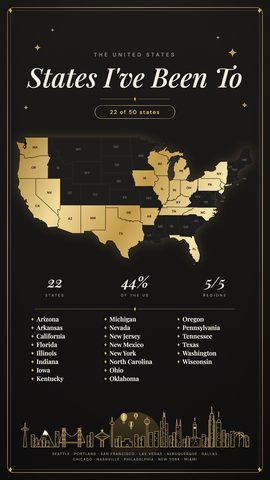
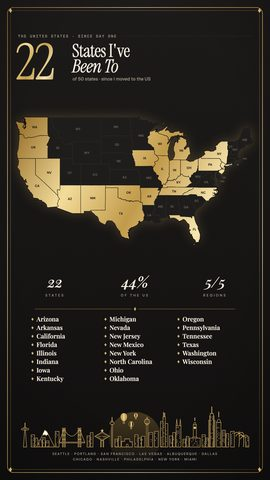
Editorial header on Wrapped, career and luxury designs
Adds edTop (compact hero numeral + serif title) and edStats (hairline
stat row). Used by Travel Wrapped, Wrapped Noir, World Wrapped, PM,
Tech, MBA, Doctor, CEO, the dark luxury set and Noir & Gold World.

Changed region(s): [[0.0593, 0.2188, 0.8889, 0.5625], [0.0593, 0.0625, 0.7704, 0.1875], [0.8, 0.0938, 0.9185, 0.1875]]

diff --git a/generator/index.html b/generator/index.html
@@ -978,12 +978,8 @@ function v55(){const ST=STATS();
  const NAVY="#2b3550",TEAL="#6fa79d",CORAL="#e3907c",MUT="#6b7a90",LINE="#e3e8ef",BG="#f7f4ef";
  bg(BG);const sh=shadow(0,6,14,"#2b3550",.06);
  svg.append("rect").attr("x",0).attr("y",0).attr("width",1080).attr("height",10).attr("fill",NAVY);svg.append("rect").attr("x",0).attr("y",10).attr("width",360).attr("height",6).attr("fill",TEAL);
- T(svg,72,200,`TRAVEL PORTFOLIO REVIEW  ·  ${CONFIG.sinceShort.toUpperCase()}`,{f:MONO,w:600,s:20,ls:3,c:TEAL});
- fitT(T(svg,68,292,"US Market Coverage",{f:SANS,w:700,s:86,c:NAVY,ls:-1}),940,86);
- T(svg,72,345,`A footprint across ${N} of 50 states, with presence in ${ST.ra===5?"all 5":ST.ra+" of 5"} regions`,{f:PLEX,s:25,c:MUT});
- const K=[[`${Math.round(N/50*100)}%`,"COVERAGE","of 50 states"],[`${N}`,"STATES ENTERED","coast to coast"],[`${ST.ra}/5`,"REGIONS ACTIVE",ST.ra===5?"full presence":`${5-ST.ra} to go`],[`${CONFIG.cities.length}`,"KEY CITIES",(CONFIG.cities.length?`${CONFIG.cities[0]} → ${CONFIG.cities[CONFIG.cities.length-1]}`:"add some!")]];
- K.forEach(([v,k,s],i)=>{const x=72+i*238,g=svg.append("g");cardBox(g,x,388,222,170,{sh});g.append("rect").attr("x",x).attr("y",388).attr("width",6).attr("height",170).attr("rx",3).attr("fill",i===0?CORAL:TEAL);
-  T(g,x+26,428,k,{f:MONO,w:600,s:14,ls:2,c:MUT});T(g,x+24,500,v,{f:SANS,w:700,s:62,c:NAVY});T(g,x+26,536,s,{f:PLEX,s:17,c:MUT});});
+ edTop({muted:MUT,line:"#dcd6cc",amber:CORAL,ink:NAVY},`TRAVEL PORTFOLIO REVIEW  ·  ${CONFIG.sinceShort.toUpperCase()}`,N,"US Market","Coverage",`of 50 states  ·  ${ST.ra===5?"all 5":ST.ra+" of 5"} regions`);
+ edStats({muted:MUT,line:"#dcd6cc",amber:CORAL,ink:NAVY},404,[["COVERAGE",`${ST.pct}%`,"of 50 states"],["REGIONS",`${ST.ra} of 5`,ST.ra===5?"full presence":`${5-ST.ra} to go`],["TOP REGION",ST.top,`${Math.round(ST.tp*100)}% covered`,true],["KEY CITIES",`${CONFIG.cities.length}`,"logged"]]);
  const mg=svg.append("g");cardBox(mg,72,590,936,580,{sh});
  T(mg,100,634,"Coverage map",{f:SANS,w:700,s:26,c:NAVY});T(mg,980,634,"Lower 48 shown",{f:MONO,s:15,c:MUT,a:"end"});
  const m=map(mg,[96,660,888,450],{fill:(n,v)=>v?(REG(n)===ST.top?CORAL:TEAL):"#ebe6df",stroke:"#ffffff",sw:(n,v)=>v?1.8:1.2});
@@ -1005,11 +1001,8 @@ function v55(){const ST=STATS();
 /* 56. TECH — travel dashboard */
 function v56(){const ST=STATS(),R=MOD.R,INK="#17223a",MUT="#5d6a82",AMB="#c9761a",P2={surf:"#ffffff",line:"#cfd6e1",sh:shadow(0,8,18,"#0b1220",.07)};
  dotBg("#eef1f5","#cfd6e1");
- T(svg,72,150,"~/states-log  on  main  ✓",{f:MONO,w:500,s:20,c:MUT});
- const tl=T(svg,64,250,"states",{f:MONO,w:600,s:100,c:INK});tl.append("tspan").attr("fill",AMB).text(".log");
- const tw=tl.node().getComputedTextLength();svg.append("rect").attr("x",64+tw+10).attr("y",176).attr("width",26).attr("height",78).attr("fill",AMB);
- T(svg,72,300,`${N} commits  ·  ${ST.pct}% coverage  ·  ${ST.ra}/5 regions  ·  ${CONFIG.sinceShort}`,{f:MONO,s:19,c:MUT});
- shields(326,[["build","passing","#2f8f8a"],["coverage",`${ST.pct}%`,"#2b4c8c"],["regions",`${ST.ra}/5`,"#6b85c9"],["release",`v${N}.0`,AMB]],72);
+ edTop({muted:MUT,line:"#cfd6e1",amber:AMB,ink:INK},`~/STATES-LOG  ·  MAIN  ✓  ·  ${CONFIG.sinceShort.toUpperCase()}`,N,"states","shipped.",`commits  ·  ${ST.pct}% coverage  ·  ${ST.ra}/5 regions`);
+ shields(344,[["build","passing","#2f8f8a"],["coverage",`${ST.pct}%`,"#2b4c8c"],["regions",`${ST.ra}/5`,"#6b85c9"],["release",`v${N}.0`,AMB]],72);
  // repo card
  card(72,390,936,620,P2);
  T(svg,100,438,`${CONFIG.name.toLowerCase().replace(/\s+/g,"-")} / states-log`,{f:MONO,w:600,s:22,c:INK});
@@ -1085,9 +1078,7 @@ function v58(){const ST=STATS();
  const INK="#17223a",MUT="#5d6a82",R=MOD.R,ACC="#2b4c8c",AMB="#c9761a";
  aura({base:"#eef1f5",blobs:[[120,200,330,"#dce6f3"],[980,240,300,"#f4e4cc"],[960,1000,340,"#e1e7f4"],[100,1050,320,"#d9ebe8"],[560,1750,380,"#e3e9f3"],[1000,1820,240,"#f1e6d2"]]});
  const sh=shadow(0,12,22,INK,.10),glass=(g,x,y,w,h,r=26)=>g.append("rect").attr("x",x).attr("y",y).attr("width",w).attr("height",h).attr("rx",r).attr("fill","#ffffff").attr("fill-opacity",.72).attr("stroke","#ffffff").attr("stroke-width",2).attr("filter",sh);
- T(svg,72,168,"me@usa:~$ travel --wrapped",{f:MONO,w:500,s:21,c:MUT});
- const tw=T(svg,62,282,"Travel ",{f:DISP,w:800,s:118,ls:-5,c:INK});tw.append("tspan").attr("fill",AMB).attr("font-family",SERIF2).attr("font-style","italic").attr("font-weight",400).attr("font-size",140).attr("letter-spacing",0).text("Wrapped");
- T(svg,72,316,`Every state ${CONFIG.since}`,{f:PLEX,s:25,c:MUT});
+ edTop({muted:MUT,line:"#cfd6e1",amber:AMB,ink:INK},`${CONFIG.name.toUpperCase()}  ·  TRAVEL WRAPPED  ·  ${CONFIG.sinceShort.toUpperCase()}`,N,"Travel","Wrapped",`states  ·  every one ${CONFIG.since}`);
  // now playing (music) — same card, shifted up
  const np=svg.append("g").attr("transform","translate(0,-32)");glass(np,72,380,936,190);
  np.append("rect").attr("x",96).attr("y",404).attr("width",142).attr("height",142).attr("rx",14).attr("fill",lg(["#2b4c8c","#2f8f8a","#c9761a"],1,1));
@@ -1146,17 +1137,10 @@ function luxDark(P){
  svg.append("rect").attr("x",30).attr("y",30).attr("width",1020).attr("height",1860).attr("rx",24).attr("fill","none").attr("stroke",GOLD).attr("stroke-width",2.2);
  svg.append("rect").attr("x",42).attr("y",42).attr("width",996).attr("height",1836).attr("rx",16).attr("fill","none").attr("stroke",GOLD).attr("stroke-width",.8).attr("opacity",.8);
  [[42,42],[1038,42],[42,1878],[1038,1878]].forEach(([x,y])=>svg.append("path").attr("d",`M${x},${y-9}L${x+6},${y}L${x},${y+9}L${x-6},${y}Z`).attr("fill",GOLD));
- // sparkles (kept clear of text)
- [[150,190,14],[930,210,18],[104,430,9],[978,420,11],[872,150,7],[210,120,7]].forEach(([x,y,r])=>sparkle(svg,x,y,r,GOLD).attr("opacity",.9));
- // header
- T(svg,540,226,P.eyebrow||"THE  UNITED  STATES",{f:"DM Sans",w:500,s:21,ls:8,c:P.muted,a:"middle"});
- fitT(T(svg,540,350,CONFIG.title,{f:"Playfair Display",i:true,w:500,s:118,c:P.ink,a:"middle"}),860,118);
- diamondRule(svg,540,396,140,GS);
- const pill=svg.append("g");pill.append("rect").attr("x",380).attr("y",422).attr("width",320).attr("height",52).attr("rx",26).attr("fill","none").attr("stroke",GOLD).attr("stroke-width",1.6);
- T(pill,540,456,`${N}  of  50  states`,{f:"DM Sans",w:500,s:22,ls:3,c:P.accent,a:"middle"});
+ edTop({muted:P.muted,line:P.unStroke,amber:GOLD,ink:P.ink},`${(P.eyebrow||"THE UNITED STATES").replace(/  /g," ")}  ·  ${CONFIG.sinceShort.toUpperCase()}`,N,...splitTitle(CONFIG.title),`of 50 states  ·  ${CONFIG.since}`);
  // map
  const glow=shadow(0,0,22,P.glow||GS,P.glowOp??.28);
- const m=map(svg,[64,540,952,520],{fill:(n,v)=>v?(P.foil?FOIL:P.R[REG(n)]):P.un,stroke:(n,v)=>v?P.vStroke:P.unStroke,sw:(n,v)=>v?1.3:1,
+ const m=map(svg,[64,400,952,640],{fill:(n,v)=>v?(P.foil?FOIL:P.R[REG(n)]):P.un,stroke:(n,v)=>v?P.vStroke:P.unStroke,sw:(n,v)=>v?1.3:1,
   under:(g,path)=>{g.append("path").datum({type:"FeatureCollection",features:STATES}).attr("d",path).attr("fill",P.un).attr("filter",glow);}});
  allLabels(m,P.vLab,P.unLab,"DM Sans",13);
  // stats row
@@ -1199,9 +1183,7 @@ function v63(){const ST=STATS();
  const INK="#f3ece2",MUT="#a39788",R={West:"#6aa894",Southwest:"#d48e64",Midwest:"#dcb862",Southeast:"#c9818f",Northeast:"#8296cf"};
  aura({base:"#100e13",blobs:[[120,200,330,"#3a1f2c"],[980,240,300,"#3a2c16"],[960,1000,340,"#1f2442"],[100,1050,320,"#12302a"],[560,1750,380,"#2e1a28"],[1000,1820,240,"#3a3018"]]});
  const sh=shadow(0,12,22,INK,.10),glass=(g,x,y,w,h,r=26)=>g.append("rect").attr("x",x).attr("y",y).attr("width",w).attr("height",h).attr("rx",r).attr("fill","#ffffff").attr("fill-opacity",.055).attr("stroke","#e8c98a").attr("stroke-opacity",.28).attr("stroke-width",1.2).attr("filter",sh);
- T(svg,72,168,"me@usa:~$ travel --wrapped",{f:MONO,w:500,s:21,c:MUT});
- T(svg,64,272,"Travel Wrapped",{f:"Playfair Display",i:true,w:500,s:118,c:INK});
- T(svg,72,316,`Every state ${CONFIG.since}`,{f:PLEX,s:25,c:MUT});
+ edTop({muted:MUT,line:"#3a3430",amber:"#e8c98a",ink:INK},`${CONFIG.name.toUpperCase()}  ·  TRAVEL WRAPPED  ·  ${CONFIG.sinceShort.toUpperCase()}`,N,"Travel","Wrapped",`states  ·  every one ${CONFIG.since}`);
  // now playing (music) — same card, shifted up
  const np=svg.append("g").attr("transform","translate(0,-32)");glass(np,72,380,936,190);
  np.append("rect").attr("x",96).attr("y",404).attr("width",142).attr("height",142).attr("rx",14).attr("fill",lg(["#d8b56e","#a8803c","#9d86c9"],1,1));
@@ -1261,18 +1243,14 @@ function v65(){const ST=STATS(),INK="#12313a",TEAL="#2a8c82",CORAL="#e07a6a",MUT
  const R={West:"#3f9c8f",Southwest:"#e0937a",Midwest:"#7fbfb3",Southeast:"#5aa7c4",Northeast:"#2f6f8a"};
  bg("#f3f8f7");noise(.035,.9,[.2,.4,.4]);const sh=shadow(0,8,18,INK,.06);
  svg.append("rect").attr("width",1080).attr("height",12).attr("fill",TEAL);
- T(svg,72,168,"PATIENT CHART  ·  TRAVEL MEDICINE",{f:MONO,w:600,s:18,ls:3,c:TEAL});T(svg,1008,168,"MRN 0050-USA",{f:MONO,s:17,c:MUT,a:"end"});
- fitT(T(svg,68,262,"Travel Health Record",{f:SERIF2,i:true,w:500,s:94,c:INK}),940,94);
- T(svg,72,308,`Patient: ${who("Me")}   ·   History: every state ${CONFIG.since}`,{f:PLEX,s:22,c:MUT});
+ edTop({muted:MUT,line:LINE,amber:TEAL,ink:INK},`PATIENT CHART  ·  TRAVEL MEDICINE  ·  MRN 0050-USA`,N,"Travel Health","Record",`states  ·  patient ${who("Me")}  ·  ${CONFIG.since}`);
  // ECG
  let d="M72,392";const pts=[[140,0],[160,-8],[178,0],[196,0],[206,14],[222,-46],[238,20],[252,0],[300,0],[318,-10],[340,0]];
  for(let k=0;k<3;k++)pts.forEach(([x,y])=>d+=` L${72+k*300+x},${392+y}`);d+=" L1008,392";
  svg.append("path").attr("d",d).attr("fill","none").attr("stroke",TEAL).attr("stroke-width",3.5).attr("stroke-linejoin","round").attr("stroke-linecap","round");
  heart(svg,1000,396,2.2,CORAL);
  // vitals
- [[`${N}`,"/50","STATES VISITED",INK],[`${ST.pct}`,"%","COVERAGE",INK],[`${ST.ra}`,"/5","REGIONS",INK],["HIGH","↑","WANDERLUST",CORAL]].forEach(([v,u,k,c],i)=>{const x=72+i*238,g=svg.append("g");
-  cardBox(g,x,430,222,140,{r:18,stroke:LINE,sh});g.append("rect").attr("x",x).attr("y",430).attr("width",222).attr("height",6).attr("fill",i===3?CORAL:TEAL);
-  T(g,x+22,474,k,{f:MONO,w:600,s:14,ls:2,c:MUT});const tv=T(g,x+20,544,v,{f:"DM Sans",w:700,s:52,c});tv.append("tspan").attr("font-size",24).attr("fill",MUT).text(" "+u);});
+ edStats({muted:MUT,line:LINE,amber:CORAL,ink:INK},430,[["STATES VISITED",`${N} / 50`,"confirmed"],["COVERAGE",`${ST.pct}%`,"of the US"],["REGIONS",`${ST.ra} / 5`,ST.ra===5?"all active":`${5-ST.ra} to go`],["WANDERLUST","High ↑","chronic",true]]);
  // imaging
  const mg=svg.append("g");cardBox(mg,72,600,936,560,{r:22,stroke:LINE,sh});
  T(mg,100,644,"Imaging  ·  full-body scan",{f:"DM Sans",w:700,s:24,c:INK});T(mg,980,644,"contiguous US",{f:MONO,s:15,c:MUT,a:"end"});
@@ -1334,12 +1312,8 @@ function v66(){const ST=STATS(),INK="#1c1b1a",MUT="#6b6660",BUR="#8b1e2d",RULE="
 function v67(){const ST=STATS(),IV="#f3ece0",MUT="#9a9083",GS="#c9a45c";const GOLD=lg(GOLDS,1,1),FOIL=lg(GOLDS,1,.55,[72,700,1008,1150]);
  svg.append("rect").attr("width",1080).attr("height",1920).attr("fill",lg(["#151413","#0b0a0a"],0,1));noise(.05,.95,[1,.92,.82]);
  svg.append("rect").attr("x",0).attr("y",0).attr("width",1080).attr("height",8).attr("fill",GOLD);
- T(svg,72,170,"ANNUAL  REPORT",{f:"DM Sans",w:500,s:20,ls:8,c:GS});T(svg,1008,170,CONFIG.sinceShort.toUpperCase(),{f:"DM Sans",w:500,s:16,ls:4,c:MUT,a:"end"});
- fitT(T(svg,68,272,"Expansion Footprint",{f:SERIF2,i:true,w:500,s:92,c:IV}),940,92);
- T(svg,72,318,"Every market entered across the United States",{f:"DM Sans",w:400,s:23,c:MUT});
- const big=T(svg,64,560,`${N}`,{f:SERIF2,w:600,s:250,c:GOLD});const bw=big.node().getComputedTextLength();
- T(svg,64+bw+28,470,"markets entered",{f:SERIF2,i:true,w:500,s:42,c:IV});T(svg,64+bw+30,516,`${ST.pct}% national coverage`,{f:"DM Sans",w:500,s:22,c:GS});
- T(svg,64+bw+30,550,`${50-N} untapped markets`,{f:"DM Sans",w:400,s:20,c:MUT});
+ edTop({muted:MUT,line:"#3a342c",amber:GOLD,ink:IV},`ANNUAL REPORT  ·  EXPANSION  ·  ${CONFIG.sinceShort.toUpperCase()}`,N,"Expansion","Footprint",`markets entered  ·  ${CONFIG.since}`);
+ edStats({muted:MUT,line:"#3a342c",amber:GS,ink:IV},408,[["NATIONAL COVERAGE",`${ST.pct}%`,"of the US"],["UNTAPPED",`${50-N}`,"markets left"],["CITIES",`${CONFIG.cities.length}`,"key offices",true]]);
  svg.append("line").attr("x1",72).attr("x2",1008).attr("y1",612).attr("y2",612).attr("stroke",GOLD).attr("stroke-width",1.2);
  const m=map(svg,[72,650,936,500],{fill:(n,v)=>v?FOIL:"#1e1c1a",stroke:(n,v)=>v?"#0b0a0a":"#302d29",sw:(n,v)=>v?1.2:1,
   under:(g,path)=>{g.append("path").datum({type:"FeatureCollection",features:STATES}).attr("d",path).attr("fill","#1e1c1a").attr("filter",shadow(0,0,22,GS,.25));}});
@@ -1391,9 +1365,7 @@ function v68(){const ST=STATS(),NAVY="#2c3e66",RED="#d24b4b",MUT="#7b829a",PAPER
 /* 69 · Product Manager — Roadmap */
 function v69(){const ST=STATS(),R=MOD.R,INK="#17223a",MUT="#5d6a82",AMB="#c9761a",GRN="#2f8f8a",P2={surf:"#ffffff",line:"#cfd6e1",sh:shadow(0,8,18,"#0b1220",.07)};
  dotBg("#eef1f5","#cfd6e1");
- T(svg,72,150,"PRODUCT  /  ROADMAPS  /  USA",{f:MONO,w:500,s:18,ls:2,c:MUT});
- const tl=T(svg,62,262,"USA ",{f:DISP,w:800,s:120,ls:-5,c:INK});tl.append("tspan").attr("fill",AMB).attr("font-family",SERIF2).attr("font-style","italic").attr("font-weight",400).attr("font-size",140).attr("letter-spacing",0).text("Roadmap");
- let cx=72;[[`Owner · ${CONFIG.name}`,"#e4e9f6","#2b4c8c"],["● On track","#e2f1ee",GRN],[`Since · ${CONFIG.sinceShort}`,"#f6ecdc","#9a5a10"]].forEach(([l,b,c])=>{const tm=T(svg,0,-50,l,{f:PLEX,w:600,s:17});const w=tm.node().getComputedTextLength()+28;tm.remove();svg.append("rect").attr("x",cx).attr("y",288).attr("width",w).attr("height",34).attr("rx",17).attr("fill",b);T(svg,cx+14,311,l,{f:PLEX,w:600,s:17,c});cx+=w+10;});
+ edTop({muted:MUT,line:"#cfd6e1",amber:AMB,ink:INK},`PRODUCT  ·  ROADMAP  ·  OWNER ${CONFIG.name.toUpperCase()}`,N,"USA","Roadmap",`states shipped  ·  ● on track  ·  since ${CONFIG.sinceShort}`);
  // progress ring + OKRs
  card(72,346,300,200,P2);const rcx=222,rcy=446,RR=70;svg.append("circle").attr("cx",rcx).attr("cy",rcy).attr("r",RR).attr("fill","none").attr("stroke","#e6eaf0").attr("stroke-width",16);
  svg.append("path").attr("d",d3.arc()({innerRadius:RR-8,outerRadius:RR+8,startAngle:0,endAngle:2*Math.PI*N/50,cornerRadius:8})).attr("transform",`translate(${rcx},${rcy})`).attr("fill",AMB);
@@ -1527,6 +1499,18 @@ function shield(g,x,y,num,s=1,c1="#1d4f91",c2="#d23b3b"){const k=g.append("g").a
  T(k,0,14,`${num}`,{f:DISP,w:800,s:26,c:"#ffffff",a:"middle"});return k;}
 
 /* Editorial header: hero numeral + serif title + hairline stat row */
+function edTop(P,eyebrow,num,l1,l2,sub){
+ const ey=T(svg,72,150,eyebrow,{f:MONO,w:500,s:15,ls:3,c:P.muted});const ew=ey.node().getComputedTextLength();
+ svg.append("line").attr("x1",72+ew+18).attr("x2",1008).attr("y1",145).attr("y2",145).attr("stroke",P.line).attr("stroke-width",1.2);
+ const hn=T(svg,62,318,String(num),{f:SERIF2,w:400,s:200,ls:-4,c:P.amber});const nw=hn.node().getComputedTextLength();
+ const tx=62+nw+34,tw=1008-tx;
+ if(l2){fitT(T(svg,tx,228,l1,{f:SERIF2,w:400,s:72,ls:-1.2,c:P.ink}),tw,72);fitT(T(svg,tx,290,l2,{f:SERIF2,i:true,w:400,s:72,ls:-1.2,c:P.ink}),tw,72);}
+ else fitT(T(svg,tx,272,l1,{f:SERIF2,w:400,s:84,ls:-1.5,c:P.ink}),tw,84);
+ fitT(T(svg,tx+2,322,sub,{f:PLEX,w:500,s:18,c:P.muted}),tw,18);}
+function edStats(P,y0,stats){const cw=936/stats.length;
+ [y0,y0+132].forEach(y=>svg.append("line").attr("x1",72).attr("x2",1008).attr("y1",y).attr("y2",y).attr("stroke",P.line).attr("stroke-width",1.2));
+ stats.forEach(([k,v,s,hi],i)=>{const x=72+i*cw+(i?22:0);if(i)svg.append("line").attr("x1",72+i*cw).attr("x2",72+i*cw).attr("y1",y0+22).attr("y2",y0+110).attr("stroke",P.line).attr("stroke-width",1.2);
+  T(svg,x,y0+40,k,{f:MONO,w:500,s:12,ls:2.4,c:P.muted});fitT(T(svg,x,y0+86,v,{f:PLEX,w:600,s:36,ls:-.5,c:hi?P.amber:P.ink}),cw-34,36);T(svg,x,y0+112,s,{f:PLEX,w:400,s:15,c:P.muted});});}
 function edHeader(P,eyebrow,num,title,sub,stats){
  const ey=T(svg,72,150,eyebrow,{f:MONO,w:500,s:15,ls:3,c:P.muted});const ew=ey.node().getComputedTextLength();
  svg.append("line").attr("x1",72+ew+18).attr("x2",1008).attr("y1",145).attr("y2",145).attr("stroke",P.line).attr("stroke-width",1.2);
@@ -1655,9 +1639,7 @@ function v81(){worldAtlas(ATLAS.dark);}
 function v82(){const WD=W(),INK="#17223a",MUT="#5d6a82",AMB="#c9761a",ACC="#2b4c8c",C=CCOL;
  aura({base:"#eef1f5",blobs:[[120,200,330,"#dce6f3"],[980,240,300,"#f4e4cc"],[960,1000,340,"#e1e7f4"],[100,1050,320,"#d9ebe8"],[560,1750,380,"#e3e9f3"],[1000,1820,240,"#f1e6d2"]]});
  const sh=shadow(0,12,22,INK,.10),glass=(x,y,w,h,r=22)=>svg.append("rect").attr("x",x).attr("y",y).attr("width",w).attr("height",h).attr("rx",r).attr("fill","#ffffff").attr("fill-opacity",.72).attr("stroke","#ffffff").attr("stroke-width",2).attr("filter",sh);
- T(svg,72,168,"me@world:~$ travel --wrapped",{f:MONO,w:500,s:21,c:MUT});
- const tw=T(svg,62,282,"World ",{f:DISP,w:800,s:118,ls:-5,c:INK});tw.append("tspan").attr("fill",AMB).attr("font-family",SERIF2).attr("font-style","italic").attr("font-weight",400).attr("font-size",140).attr("letter-spacing",0).text("Wrapped");
- T(svg,72,316,`Every country ${CONFIG.since}`,{f:PLEX,s:25,c:MUT});
+ edTop({muted:MUT,line:"#cfd6e1",amber:AMB,ink:INK},`${CONFIG.name.toUpperCase()}  ·  WORLD WRAPPED  ·  ${CONFIG.sinceShort.toUpperCase()}`,WD.n,"World","Wrapped",`countries  ·  ${WD.active} of 6 continents  ·  ${CONFIG.since}`);
  glass(72,348,936,160);svg.append("rect").attr("x",96).attr("y",372).attr("width",112).attr("height",112).attr("rx",12).attr("fill",lg(["#2b4c8c","#2f8f8a","#c9761a"],1,1));
  worldMap(svg,[102,404,100,50],{fill:()=>"#ffffff",un:"rgba(255,255,255,.28)",vStroke:"none",unStroke:"none"});
  T(svg,236,402,"NOW PLAYING",{f:MONO,w:600,s:14,ls:3,c:ACC});fitT(T(svg,236,446,wTitle(),{f:DISP,w:700,s:38,ls:-1,c:INK}),640,38);T(svg,236,474,`${CONFIG.name}  ·  ${WD.n} tracks  ·  ${CONFIG.sinceShort}`,{f:PLEX,s:18,c:MUT});
@@ -1686,11 +1668,8 @@ function v83(){const WD=W(),IV="#f4ece0",MUT="#9d9283",GS="#c9a45c",GOLD=lg(GOLD
  svg.append("rect").attr("x",30).attr("y",30).attr("width",1020).attr("height",1860).attr("rx",24).attr("fill","none").attr("stroke",GOLD).attr("stroke-width",2.2);
  svg.append("rect").attr("x",42).attr("y",42).attr("width",996).attr("height",1836).attr("rx",16).attr("fill","none").attr("stroke",GOLD).attr("stroke-width",.8).attr("opacity",.8);
  [[42,42],[1038,42],[42,1878],[1038,1878]].forEach(([x,y])=>svg.append("path").attr("d",`M${x},${y-9}L${x+6},${y}L${x},${y+9}L${x-6},${y}Z`).attr("fill",GOLD));
- [[150,190,14],[930,210,18],[104,430,9],[978,420,11]].forEach(([x,y,r])=>sparkle(svg,x,y,r,GOLD));
- T(svg,540,226,"AROUND  THE  WORLD",{f:PLEX,w:500,s:21,ls:8,c:MUT,a:"middle"});
- fitT(T(svg,540,350,wTitle(),{f:SERIF2,i:true,w:400,s:120,c:IV,a:"middle"}),880,120);diamondRule(svg,540,396,140,GS);
- svg.append("rect").attr("x",360).attr("y",422).attr("width",360).attr("height",52).attr("rx",26).attr("fill","none").attr("stroke",GOLD).attr("stroke-width",1.6);T(svg,540,456,`${WD.n}  of  195  countries`,{f:PLEX,w:500,s:22,ls:3,c:"#e2c27d",a:"middle"});
- const wm=worldMap(svg,[64,540,952,480],{fill:()=>FOIL,un:"#1f1d1b",vStroke:"#0b0a0a",unStroke:"#33302c",glow:shadow(0,0,22,GS,.25),dotStroke:"#0b0a0a"});
+ edTop({muted:MUT,line:"#3a342c",amber:GOLD,ink:IV},`AROUND THE WORLD  ·  ${CONFIG.sinceShort.toUpperCase()}`,WD.n,...splitTitle(wTitle()),`of 195 countries  ·  ${WD.active} of 6 continents`);
+ const wm=worldMap(svg,[64,400,952,600],{fill:()=>FOIL,un:"#1f1d1b",vStroke:"#0b0a0a",unStroke:"#33302c",glow:shadow(0,0,22,GS,.25),dotStroke:"#0b0a0a"});
  const sy=1110;[[`${WD.n}`,"COUNTRIES"],[`${WD.pct}%`,"OF THE WORLD"],[`${WD.active}/6`,"CONTINENTS"]].forEach(([v,k],i)=>{const x=220+i*320;T(svg,x,sy,v,{f:SERIF2,i:true,w:400,s:64,c:IV,a:"middle"});T(svg,x,sy+36,k,{f:PLEX,w:500,s:14,ls:5,c:MUT,a:"middle"});
   if(i)svg.append("line").attr("x1",x-160).attr("x2",x-160).attr("y1",sy-46).attr("y2",sy+34).attr("stroke",GOLD).attr("stroke-width",1).attr("opacity",.7);});
  diamondRule(svg,540,1200,400,GS);
